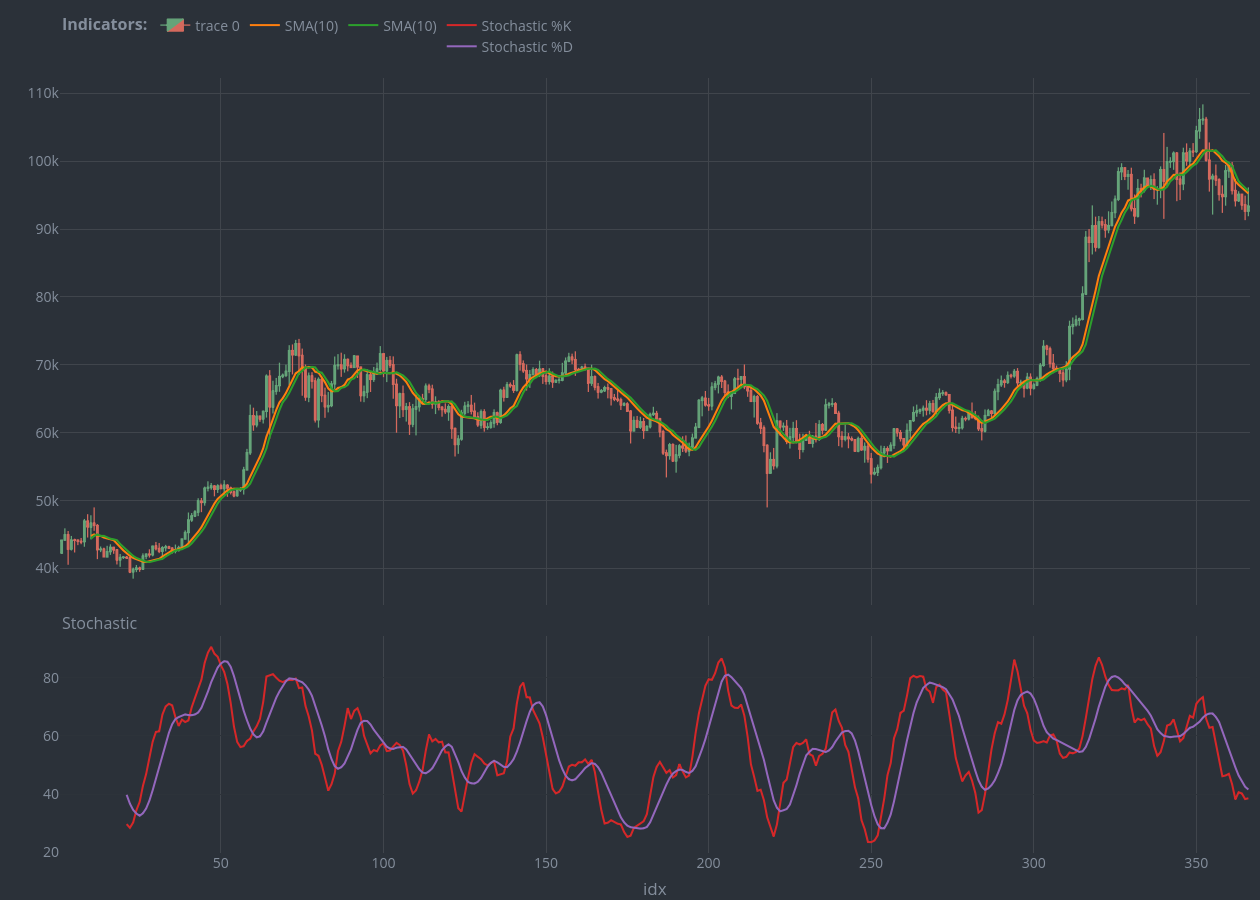
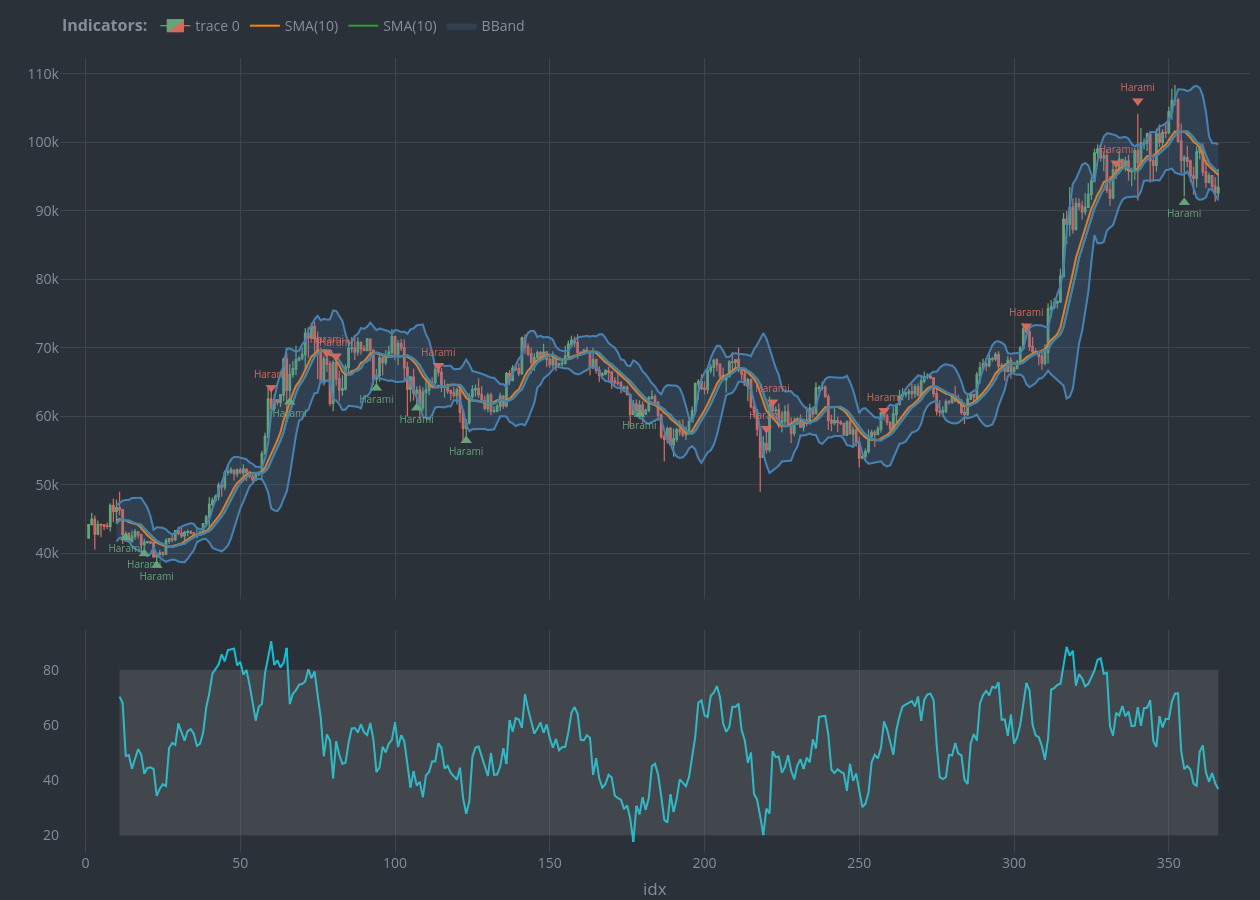
:books: Updated README

diff --git a/README.md b/README.md
@@ -8,6 +8,10 @@
 [![R-CMD-check](https://github.com/serkor1/curly-giggle/actions/workflows/R-CMD-check.yaml/badge.svg)](https://github.com/serkor1/curly-giggle/actions/workflows/R-CMD-check.yaml)
 [![Codecov test
 coverage](https://codecov.io/gh/serkor1/curly-giggle/graph/badge.svg)](https://app.codecov.io/gh/serkor1/curly-giggle)
+[![CRAN
+status](https://www.r-pkg.org/badges/version/talib)](https://CRAN.R-project.org/package=talib)
+[![CRAN RStudio mirror
+downloads](https://cranlogs.r-pkg.org/badges/last-month/talib?color=blue)](https://r-pkg.org/pkg/talib)
 <!-- badges: end -->
 
 {talib} provides R bindings for
@@ -18,11 +22,15 @@ Analysis indicators and Candlestick patterns.
 
 ## Installation
 
-You can install the development version of talib from
-[GitHub](https://github.com/) with:
+### Stable
 
 ``` r
-# install.packages("pak")
+pak::pak("talib")
+```
+
+### Development
+
+``` r
 pak::pak("serkor1/curly-giggle")
 ```
 
@@ -33,17 +41,11 @@ pak::pak("serkor1/curly-giggle")
 This is a basic example which shows you how to solve a common problem:
 
 ``` r
-library(talib)
-
-## calculate bollinger
-## bands
-x <- talib::BTC
-
 ## calculate bollinger
 ## bands
 tail(
   talib::bollinger_bands(
-    x
+    talib::BTC
   )
 )
 ```
@@ -66,8 +68,8 @@ library(talib)
 x <- talib::BTC
 
 {
-  ## calculate bollinger
-  ## bands
+  ## chart Bitcoin
+  ## with candlesticks
   talib::chart(
     x = x
   )
@@ -76,13 +78,25 @@ x <- talib::BTC
   ## to the chart
   talib::indicator(
     FUN = talib::SMA,
-    cols = ~close + open
+    cols = ~ close + open
   )
 
   ## add bollinger bands
   ## to the chart
   talib::indicator(
-    FUN = talib::stochastic
+    FUN = talib::bollinger_bands
+  )
+
+  ## add RSI indicator
+  ## to the chart
+  talib::indicator(
+    FUN = talib::relative_strength_index
+  )
+
+  ## add harami indicators
+  ## to the chart
+  talib::indicator(
+    FUN = talib::harami
   )
 }
 ```
